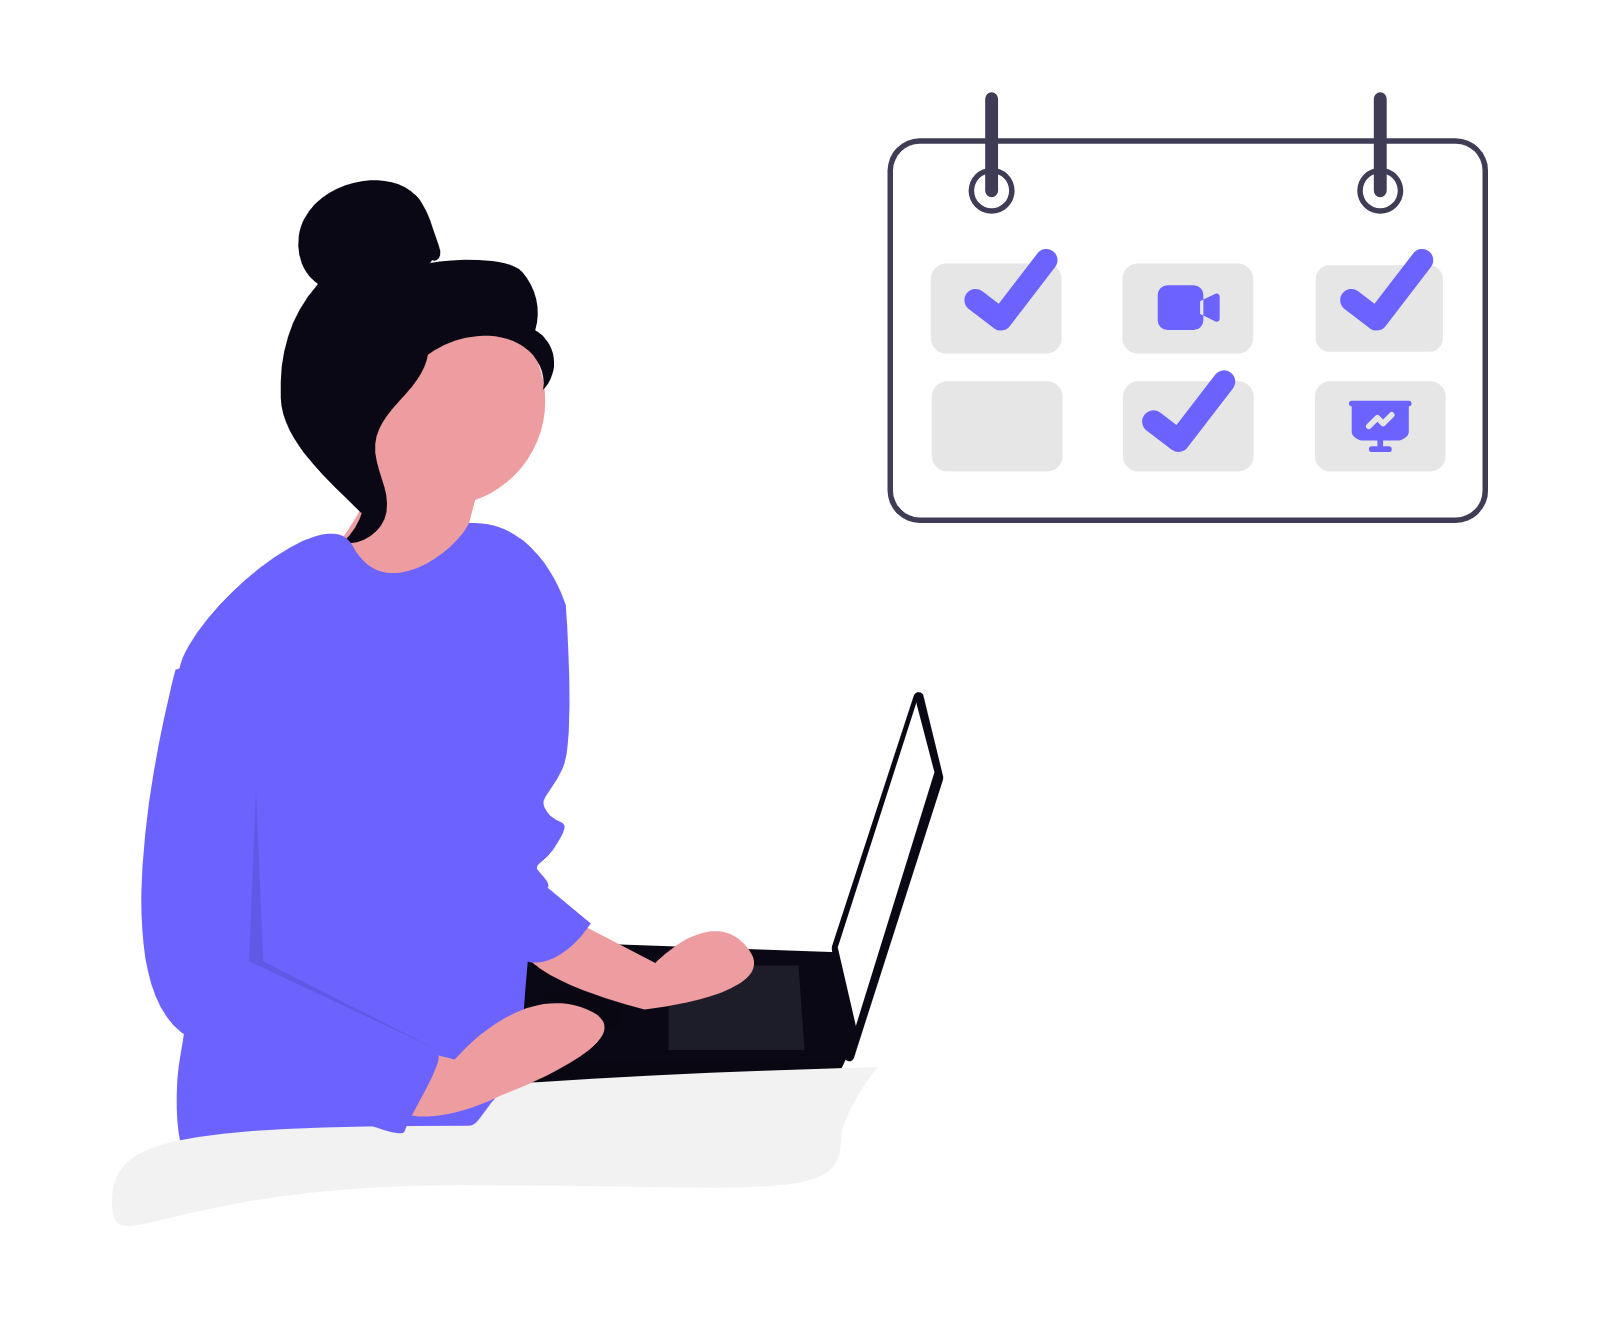
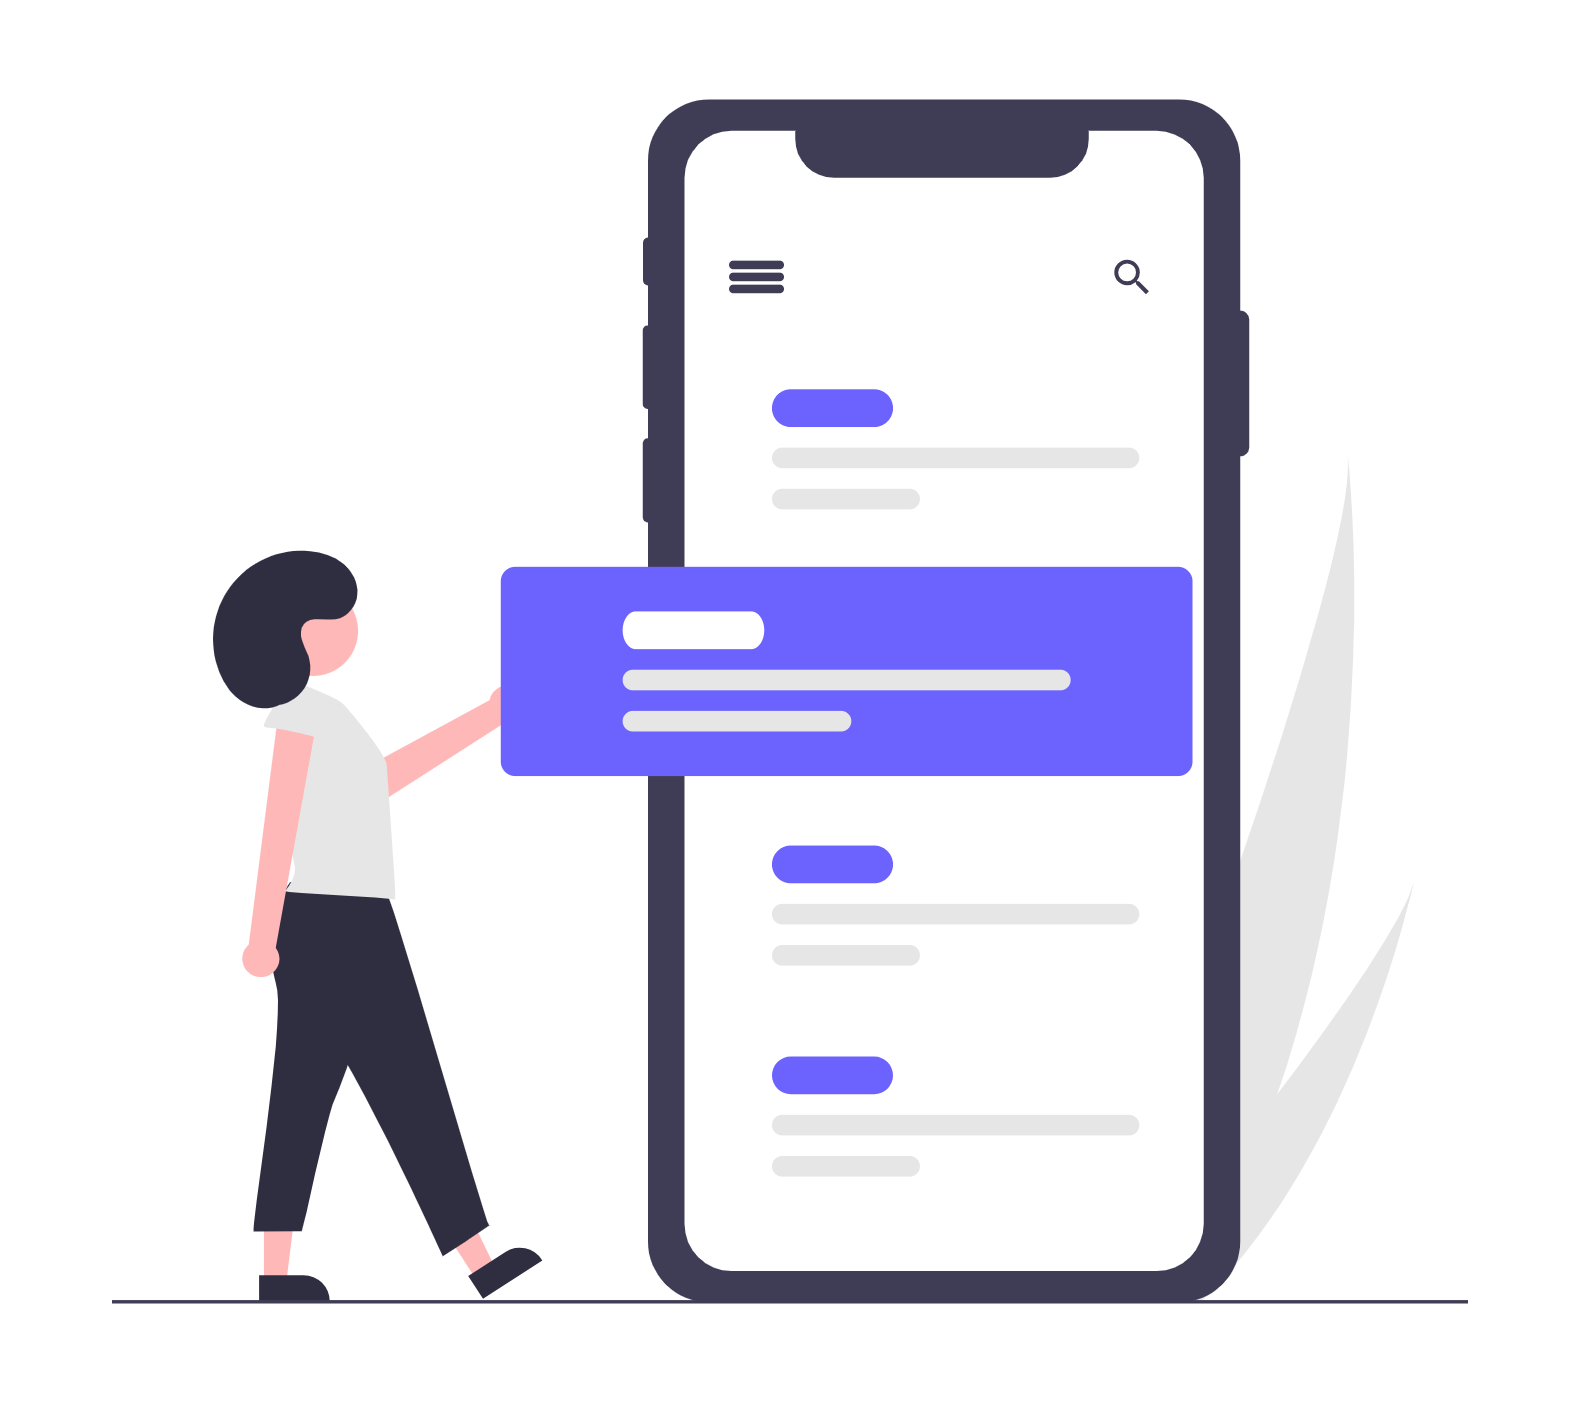
add edit screen

diff --git a/lib/screens/todos.dart b/lib/screens/todos.dart
@@ -5,6 +5,7 @@ import 'package:flutter_riverpod/flutter_riverpod.dart';
 import 'package:intl/intl.dart';
 import 'package:note_app/model/model.dart';
 import 'package:note_app/provider/todos.dart';
+import 'package:note_app/screens/edit_screen.dart';
 
 class ToDos extends ConsumerStatefulWidget {
   const ToDos({super.key});
@@ -50,7 +51,55 @@ class _ToDosState extends ConsumerState<ToDos> {
               ),
             ),
             actions: [
-              IconButton(onPressed: () {}, icon: const Icon(Icons.more_vert)),
+              PopupMenuButton<int>(
+                shape: RoundedRectangleBorder(
+                  borderRadius: BorderRadius.circular(12),
+                ),
+                elevation: 8,
+                color: Colors.white,
+                onSelected: (value) {
+                  if (value == 0) {
+                    // Edit
+                  } else if (value == 1) {
+                    // Delete
+                  } else if (value == 2) {
+                    // Share
+                  }
+                },
+                itemBuilder: (context) => [
+                  const PopupMenuItem(
+                    value: 0,
+                    child: Row(
+                      children: [
+                        Icon(Icons.edit, color: Colors.blue),
+                        SizedBox(width: 8),
+                        Text('Edit'),
+                      ],
+                    ),
+                  ),
+                  const PopupMenuItem(
+                    value: 1,
+                    child: Row(
+                      children: [
+                        Icon(Icons.delete, color: Colors.red),
+                        SizedBox(width: 8),
+                        Text('Delete'),
+                      ],
+                    ),
+                  ),
+                  const PopupMenuItem(
+                    value: 2,
+                    child: Row(
+                      children: [
+                        Icon(Icons.share, color: Colors.green),
+                        SizedBox(width: 8),
+                        Text('Share'),
+                      ],
+                    ),
+                  ),
+                ],
+                icon: const Icon(Icons.more_vert),
+              ),
             ],
             actionsPadding: const EdgeInsets.all(12),
             floating: true,
@@ -67,6 +116,13 @@ class _ToDosState extends ConsumerState<ToDos> {
                   padding: const EdgeInsets.all(8.0),
                   child: Card.outlined(
                     child: ListTile(
+                      onLongPress: () {
+                        Navigator.of(context).push(
+                          MaterialPageRoute(
+                            builder: (_) => EditScreen(model: item[index]),
+                          ),
+                        );
+                      },
                       title: Text(item[index].body),
                       leading: Checkbox(
                         shape: const CircleBorder(),
@@ -82,18 +138,20 @@ class _ToDosState extends ConsumerState<ToDos> {
                 ),
               );
             }, childCount: item.length),
-          ),
+          ) /*
           if (item.isEmpty)
             SliverFillRemaining(
               hasScrollBody: false,
-              child: Center(
+              child: SizedBox(
+                width: double.infinity,
+                height: double.infinity,
+
                 child: Image.asset(
                   'assets/image/notodo.png',
-                  color: Colors.transparent,
-                  colorBlendMode: BlendMode.multiply,
+                  fit: BoxFit.cover,
                 ),
               ),
-            ),
+            ),*/,
         ],
       ),
     );
@@ -114,7 +172,7 @@ class _ToDosState extends ConsumerState<ToDos> {
     );
   }
 
-  Future<PersistentBottomSheetController> modelsheet() async {
+  modelsheet() async {
     return showBottomSheet(
       showDragHandle: true,
       backgroundColor: Colors.white54,

diff --git a/lib/screens/edit_screen.dart b/lib/screens/edit_screen.dart
@@ -1,0 +1,105 @@
+import 'package:flutter/material.dart';
+import 'package:flutter_riverpod/flutter_riverpod.dart';
+import 'package:note_app/model/model.dart';
+import 'package:note_app/provider/todos.dart';
+
+class EditScreen extends ConsumerStatefulWidget {
+  const EditScreen({super.key, required this.model});
+
+  final Model model;
+  @override
+  ConsumerState<EditScreen> createState() => _EditScreenState();
+}
+
+class _EditScreenState extends ConsumerState<EditScreen> {
+  late TextEditingController textEditingController = TextEditingController();
+  @override
+  void dispose() {
+    super.dispose();
+    textEditingController.dispose();
+  }
+
+  void onsave() {
+    final bool isdone = false;
+    final text = textEditingController.text;
+    if (text.isEmpty) return;
+    ref.read(todosnotifier.notifier).editTodo(widget.model.id, text, isdone);
+    Navigator.of(context).pop();
+  }
+
+  @override
+  Widget build(BuildContext context) {
+    return Scaffold(
+      appBar: AppBar(title: const Text('Edit Screen'), centerTitle: true),
+      body: SingleChildScrollView(
+        child: Padding(
+          padding: const EdgeInsets.all(8.0),
+          child: Column(
+            children: [
+              TextField(
+                decoration: const InputDecoration(
+                  labelText: 'Edit Todo :',
+                  border: OutlineInputBorder(
+                    borderRadius: BorderRadius.all(Radius.circular(20)),
+                  ),
+                ),
+                keyboardType: TextInputType.text,
+                controller: textEditingController,
+              ),
+              const SizedBox(height: 10),
+              Row(
+                mainAxisAlignment: MainAxisAlignment.spaceEvenly,
+                children: [
+                  ElevatedButton(
+                    onPressed: onsave,
+                    style: ElevatedButton.styleFrom(
+                      padding: const EdgeInsets.symmetric(
+                        vertical: 10,
+                        horizontal: 50,
+                      ),
+                      shape: RoundedRectangleBorder(
+                        borderRadius: BorderRadius.circular(4),
+                      ),
+                      backgroundColor: Theme.of(
+                        context,
+                      ).colorScheme.onPrimaryContainer,
+                    ),
+                    child: Text(
+                      'Save',
+                      style: TextStyle(
+                        color: Theme.of(context).colorScheme.surface,
+                      ),
+                    ),
+                  ),
+                  ElevatedButton(
+                    onPressed: () {
+                      Navigator.of(context).pop(true);
+                    },
+                    style: ElevatedButton.styleFrom(
+                      padding: const EdgeInsets.symmetric(
+                        vertical: 10,
+                        horizontal: 50,
+                      ),
+                      shape: RoundedRectangleBorder(
+                        borderRadius: BorderRadius.circular(4),
+                      ),
+                      backgroundColor: Theme.of(
+                        context,
+                      ).colorScheme.onPrimaryContainer,
+                    ),
+                    child: Text(
+                      'Cancel',
+                      style: TextStyle(
+                        color: Theme.of(context).colorScheme.surface,
+                      ),
+                    ),
+                  ),
+                ],
+              ),
+            ],
+          ),
+        ),
+      ),
+    );
+  }
+}

diff --git a/lib/provider/todos.dart b/lib/provider/todos.dart
@@ -12,6 +12,15 @@ class Todos extends StateNotifier<List<Model>> {
   void removetodo(String id) {
     state = state.where((item) => item.id != id).toList();
   }
+
+  void editTodo(String id, String body, bool done) {
+    state = state.map((item) {
+      if (item.id == id) {
+        return Model(id: id, body: body, iscompleate: done);
+      }
+      return item;
+    }).toList();
+  }
 }
 
 final todosnotifier = StateNotifierProvider<Todos, List<Model>>((ref) {
